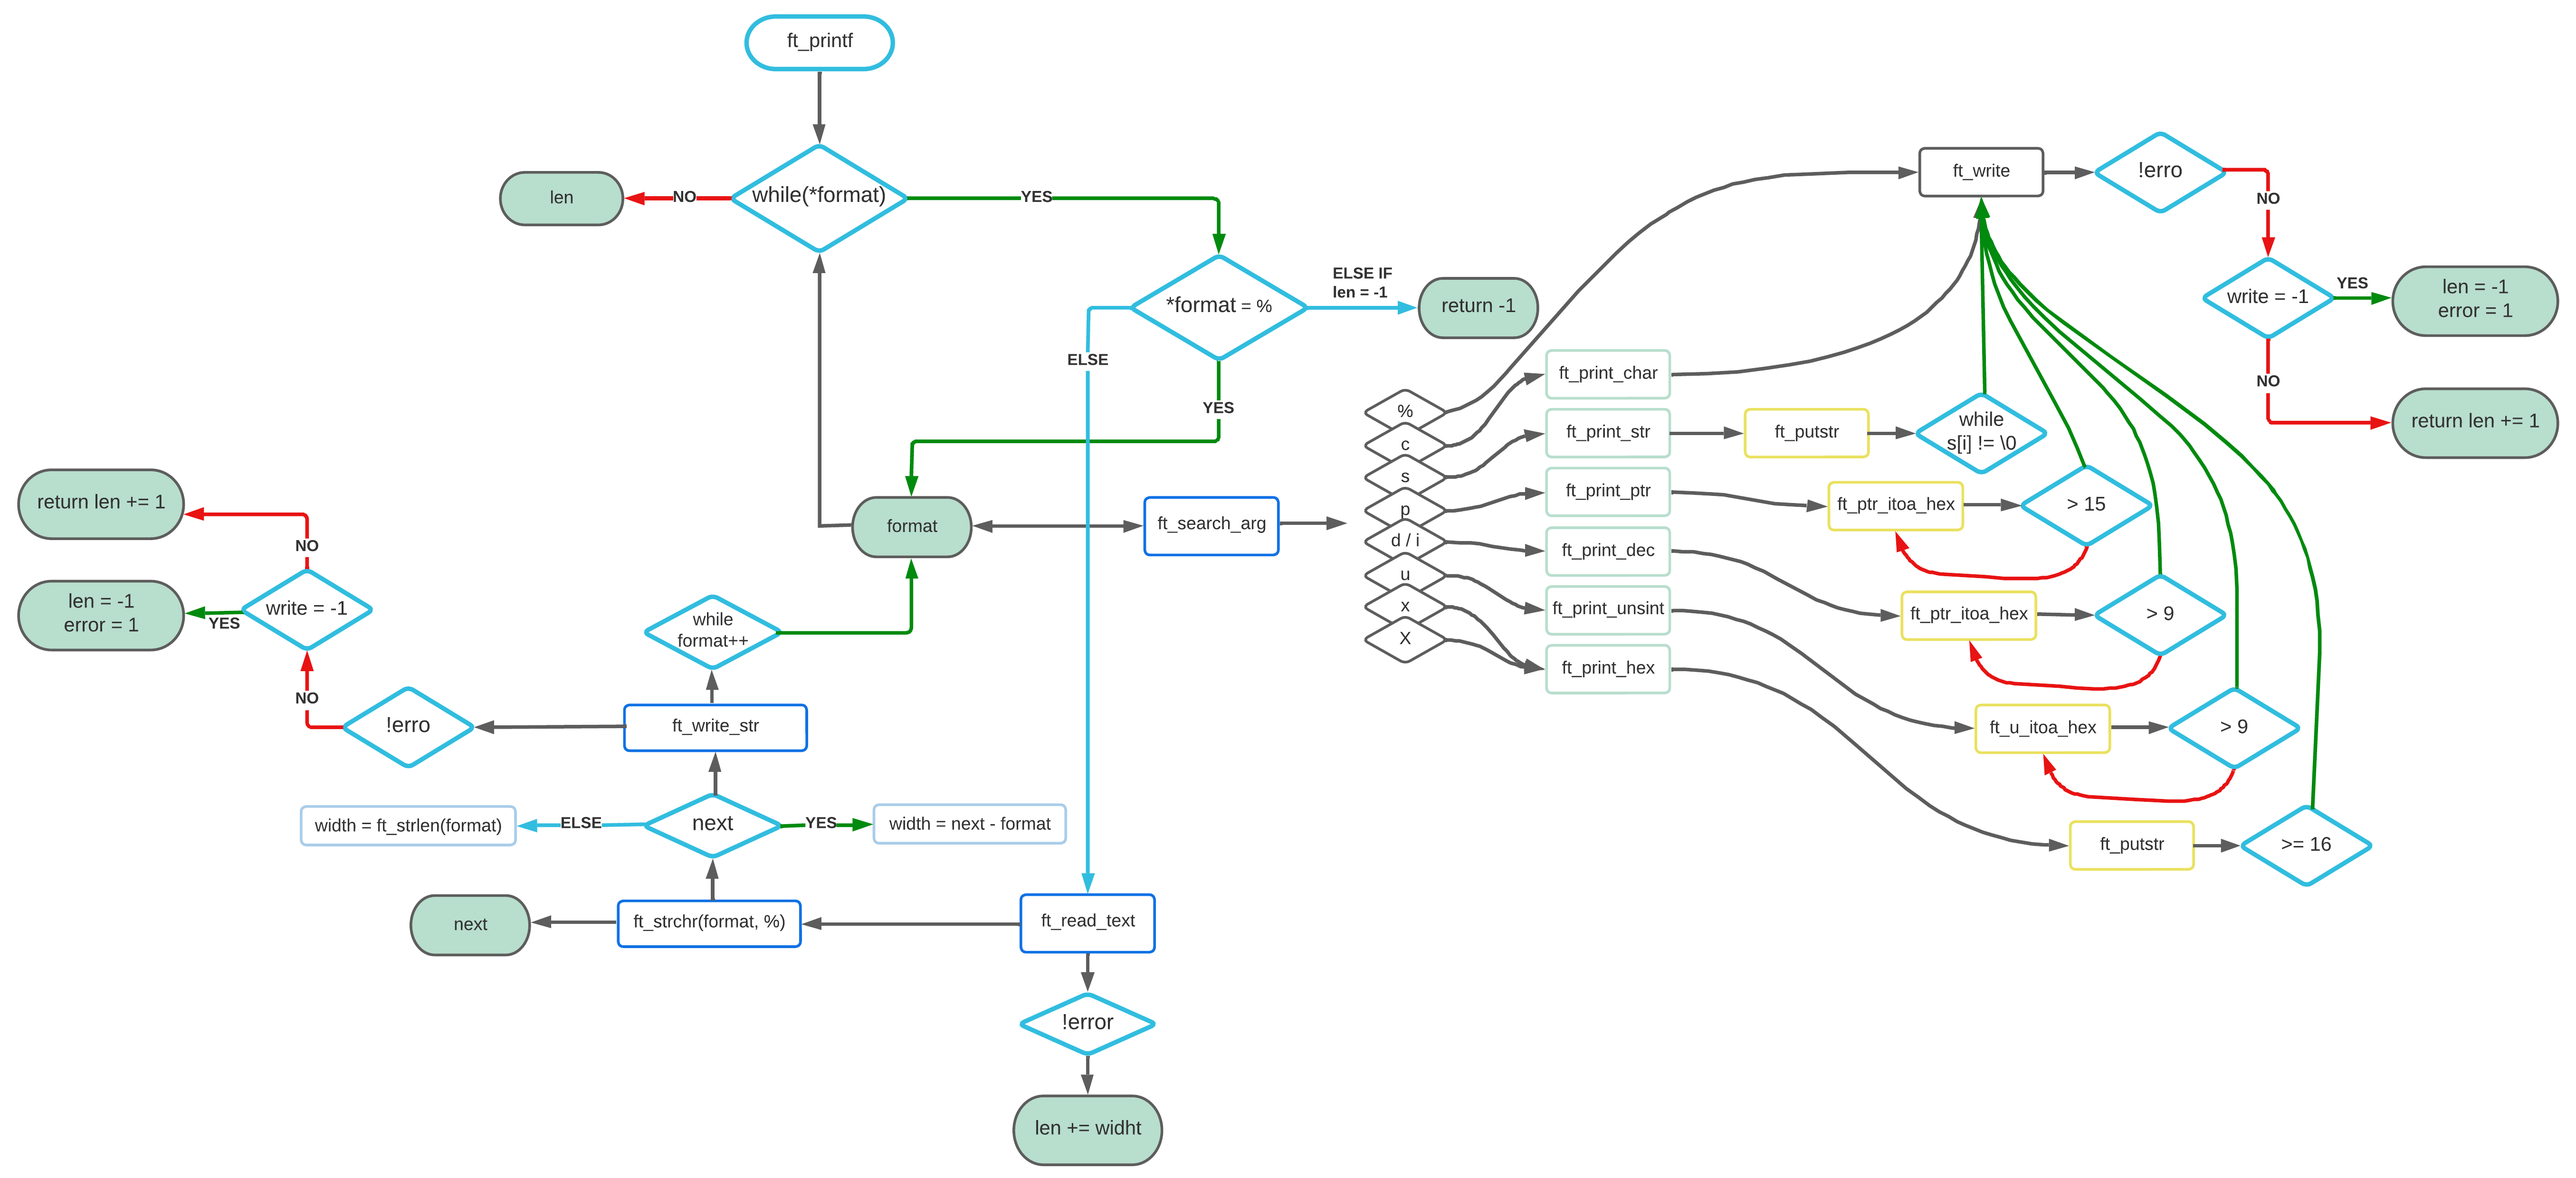
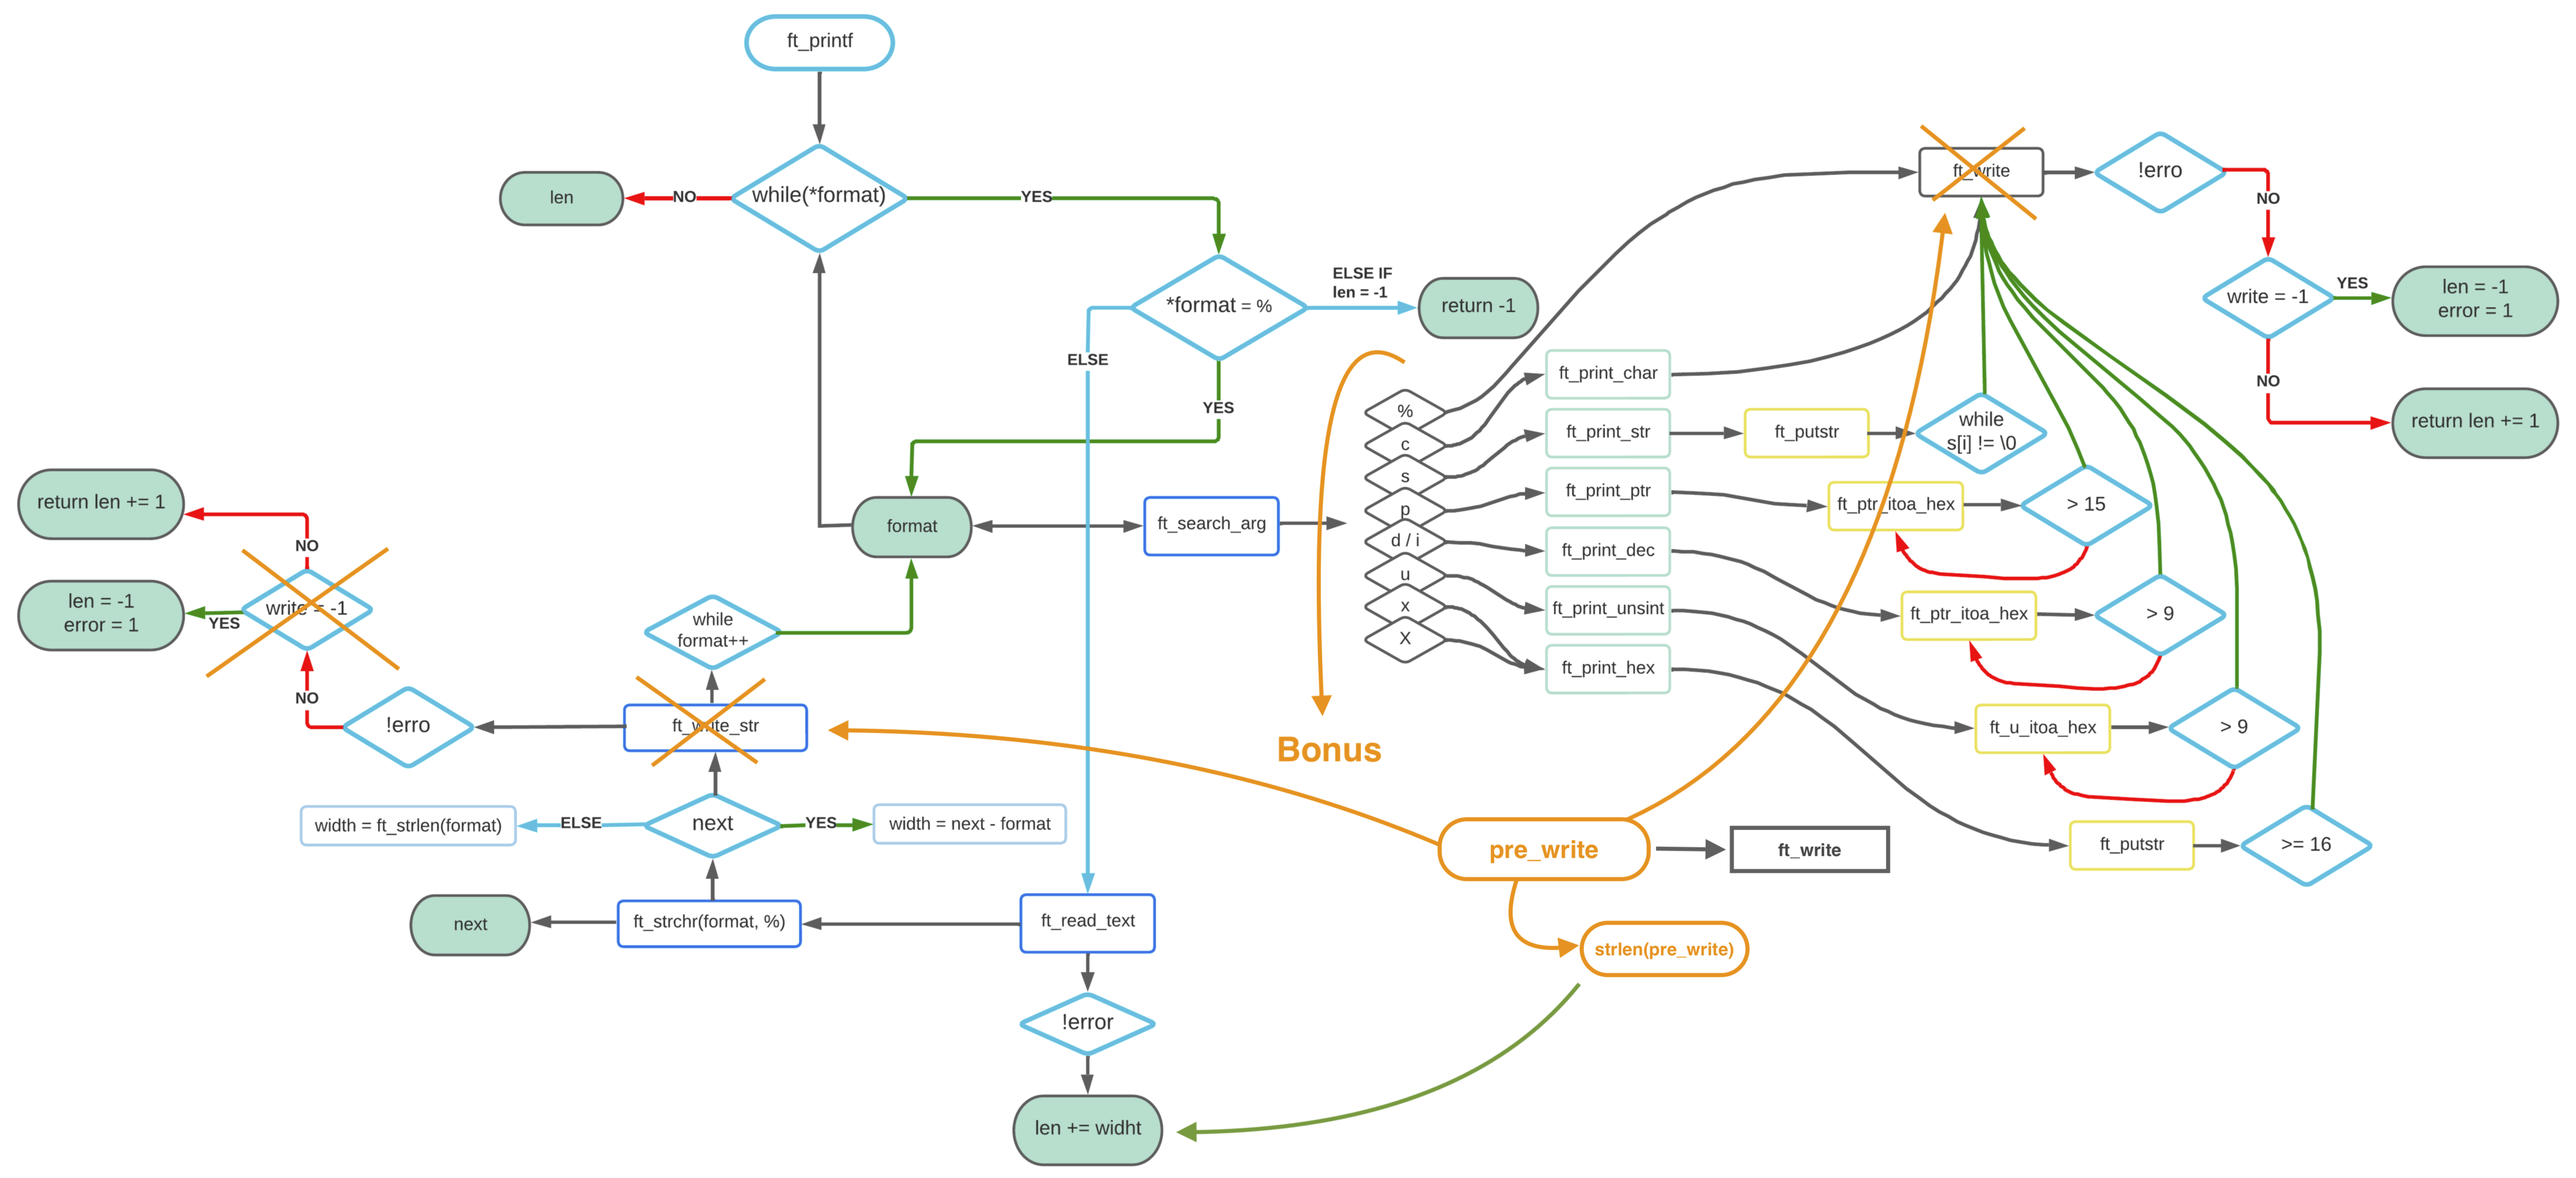
working... and ideas

diff --git a/test/bonus_dec.c b/test/bonus_dec.c
@@ -1,0 +1,59 @@
+/* ************************************************************************** */
+/*                                                                            */
+/*                                                        :::      ::::::::   */
+/*   bonus_dec.c                                        :+:      :+:    :+:   */
+/*                                                    +:+ +:+         +:+     */
+/*   By: nmota-bu <nmota-bu@student.42barcel>       +#+  +:+       +#+        */
+/*                                                +#+#+#+#+#+   +#+           */
+/*   Created: 2022/08/06 00:21:59 by nmota-bu          #+#    #+#             */
+/*   Updated: 2022/08/07 00:15:14 by nmota-bu         ###   ########.fr       */
+/*                                                                            */
+/* ************************************************************************** */
+
+/* ╔════════════════════════════════════════════════════════════════════════╗ */
+/* ║                 https://github.com/nach131/42Barcelona                 ║ */
+/* ╚════════════════════════════════════════════════════════════════════════╝ */
+
+#include <stdio.h>
+
+int	main(void)
+{
+	printf("%%7d: 42%7d|\n", 42);
+	printf("%%7d: -42%7d|\n", -42);
+	printf("-------------------\n");
+	printf("%%-7d: 42%-7d|\n", 42);
+	printf("%%-7d: -42%-7d|\n", -42);
+	printf("-------------------\n");
+	printf("%%.7d: 42%.7d|\n", 42);
+	printf("%%.7d: -42%.7d|\n", -42);
+	printf("-------------------\n");
+	printf("%%07d: 42%07d|\n", 42); 
+	printf("%%07d: -42%07d|\n", -42);
+	printf("-------------------\n");
+	printf("%%7.5d: 42%7.5d|\n", 42);
+	printf("%%7.5d: -42%7.5d|\n", -42);
+	printf("-------------------\n");
+	printf("%%-7.5d: 42%-7.5d|\n", 42);
+	printf("%%-7.5d: -42%-7.5d|\n", -42);
+	printf("-------------------\n");
+
+}
+
+// %7d: 42     42|			7 en total se llena con espacios
+// %7d: -42    -42|			a la izq
+// -------------------
+// %-7d: 4242     |			7 en total se llena con espacios 
+// %-7d: -42-42    |		a la derecha
+// -------------------
+// %.7d: 420000042| 		7 total llenado de 0
+// %.7d: -42-0000042|		7 total incluido - llenado de cero
+// -------------------
+// %07d: 420000042| 		7 total llenado de 0
+// %07d: -42-000042|		7 total incluido - llenado de cero
+// -------------------
+// %7.5d: 42  00042|		7 espacios a la izq llenado de ceros
+// %7.5d: -42 -00042|		7 - incluido
+// -------------------
+// %-7.5d: 4200042  |		7 espacios a la derecha llenado de ceros
+// %-7.5d: -42-00042 |	7 - incluido
+// -------------------

diff --git a/test/bonus_un.c b/test/bonus_un.c
@@ -1,0 +1,59 @@
+/* ************************************************************************** */
+/*                                                                            */
+/*                                                        :::      ::::::::   */
+/*   bonus_un.c                                         :+:      :+:    :+:   */
+/*                                                    +:+ +:+         +:+     */
+/*   By: nmota-bu <nmota-bu@student.42barcel>       +#+  +:+       +#+        */
+/*                                                +#+#+#+#+#+   +#+           */
+/*   Created: 2022/08/06 00:21:59 by nmota-bu          #+#    #+#             */
+/*   Updated: 2022/08/07 00:15:58 by nmota-bu         ###   ########.fr       */
+/*                                                                            */
+/* ************************************************************************** */
+
+/* ╔════════════════════════════════════════════════════════════════════════╗ */
+/* ║                 https://github.com/nach131/42Barcelona                 ║ */
+/* ╚════════════════════════════════════════════════════════════════════════╝ */
+
+#include <stdio.h>
+
+int	main(void)
+{
+	printf("%%7d: 42%7u|\n", 42);
+	printf("%%7d: -42%7u|\n", -42);
+	printf("-------------------\n");
+	printf("%%-7d: 42%-7u|\n", 42);
+	printf("%%-7d: -42%-7u|\n", -42);
+	printf("-------------------\n");
+	printf("%%.7d: 42%.7u|\n", 42);
+	printf("%%.7d: -42%.7u|\n", -42);
+	printf("-------------------\n");
+	printf("%%07d: 42%07u|\n", 42); 
+	printf("%%07d: -42%07u|\n", -42);
+	printf("-------------------\n");
+	printf("%%7.5d: 42%7.5u|\n", 42);
+	printf("%%7.5d: -42%7.5u|\n", -42);
+	printf("-------------------\n");
+	printf("%%-7.5d: 42%-7.5u|\n", 42);
+	printf("%%-7.5d: -42%-7.5u|\n", -42);
+	printf("-------------------\n");
+
+}
+
+// %7d: 42     42|			7 en total se llena con espacios
+// %7d: -42    -42|			a la izq
+// -------------------
+// %-7d: 4242     |			7 en total se llena con espacios 
+// %-7d: -42-42    |		a la derecha
+// -------------------
+// %.7d: 420000042| 		7 total llenado de 0
+// %.7d: -42-0000042|		7 total incluido - llenado de cero
+// -------------------
+// %07d: 420000042| 		7 total llenado de 0
+// %07d: -42-000042|		7 total incluido - llenado de cero
+// -------------------
+// %7.5d: 42  00042|		7 espacios a la izq llenado de ceros
+// %7.5d: -42 -00042|		7 - incluido
+// -------------------
+// %-7.5d: 4200042  |		7 espacios a la derecha llenado de ceros
+// %-7.5d: -42-00042 |	7 - incluido
+// -------------------

diff --git a/test/bonus_int.c b/test/bonus_int.c
@@ -1,0 +1,59 @@
+/* ************************************************************************** */
+/*                                                                            */
+/*                                                        :::      ::::::::   */
+/*   bonus_int.c                                        :+:      :+:    :+:   */
+/*                                                    +:+ +:+         +:+     */
+/*   By: nmota-bu <nmota-bu@student.42barcel>       +#+  +:+       +#+        */
+/*                                                +#+#+#+#+#+   +#+           */
+/*   Created: 2022/08/06 00:21:59 by nmota-bu          #+#    #+#             */
+/*   Updated: 2022/08/07 00:13:35 by nmota-bu         ###   ########.fr       */
+/*                                                                            */
+/* ************************************************************************** */
+
+/* ╔════════════════════════════════════════════════════════════════════════╗ */
+/* ║                 https://github.com/nach131/42Barcelona                 ║ */
+/* ╚════════════════════════════════════════════════════════════════════════╝ */
+
+#include <stdio.h>
+
+int	main(void)
+{
+	printf("%%7d: 42%7i|\n", 42);
+	printf("%%7d: -42%7i|\n", -42);
+	printf("-------------------\n");
+	printf("%%-7d: 42%-7i|\n", 42);
+	printf("%%-7d: -42%-7i|\n", -42);
+	printf("-------------------\n");
+	printf("%%.7d: 42%.7i|\n", 42);
+	printf("%%.7d: -42%.7i|\n", -42);
+	printf("-------------------\n");
+	printf("%%07d: 42%07i|\n", 42); 
+	printf("%%07d: -42%07i|\n", -42);
+	printf("-------------------\n");
+	printf("%%7.5d: 42%7.5i|\n", 42);
+	printf("%%7.5d: -42%7.5i|\n", -42);
+	printf("-------------------\n");
+	printf("%%-7.5d: 42%-7.5i|\n", 42);
+	printf("%%-7.5d: -42%-7.5i|\n", -42);
+	printf("-------------------\n");
+
+}
+
+// %7d: 42     42|			7 en total se llena con espacios
+// %7d: -42    -42|			a la izq
+// -------------------
+// %-7d: 4242     |			7 en total se llena con espacios 
+// %-7d: -42-42    |		a la derecha
+// -------------------
+// %.7d: 420000042| 		7 total llenado de 0
+// %.7d: -42-0000042|		7 total incluido - llenado de cero
+// -------------------
+// %07d: 420000042| 		7 total llenado de 0
+// %07d: -42-000042|		7 total incluido - llenado de cero
+// -------------------
+// %7.5d: 42  00042|
+// %7.5d: -42 -00042|
+// -------------------
+// %-7.5d: 4200042  |
+// %-7.5d: -42-00042 |
+// -------------------

diff --git a/test/bonus_x.c b/test/bonus_x.c
@@ -1,0 +1,59 @@
+/* ************************************************************************** */
+/*                                                                            */
+/*                                                        :::      ::::::::   */
+/*   bonus_x.c                                          :+:      :+:    :+:   */
+/*                                                    +:+ +:+         +:+     */
+/*   By: nmota-bu <nmota-bu@student.42barcel>       +#+  +:+       +#+        */
+/*                                                +#+#+#+#+#+   +#+           */
+/*   Created: 2022/08/06 00:21:59 by nmota-bu          #+#    #+#             */
+/*   Updated: 2022/08/07 00:17:27 by nmota-bu         ###   ########.fr       */
+/*                                                                            */
+/* ************************************************************************** */
+
+/* ╔════════════════════════════════════════════════════════════════════════╗ */
+/* ║                 https://github.com/nach131/42Barcelona                 ║ */
+/* ╚════════════════════════════════════════════════════════════════════════╝ */
+
+#include <stdio.h>
+
+int	main(void)
+{
+	printf("%%7d: 42%7x|\n", 42);
+	printf("%%7d: -42%7x|\n", -42);
+	printf("-------------------\n");
+	printf("%%-7d: 42%-7x|\n", 42);
+	printf("%%-7d: -42%-7x|\n", -42);
+	printf("-------------------\n");
+	printf("%%.7d: 42%.7x|\n", 42);
+	printf("%%.7d: -42%.7x|\n", -42);
+	printf("-------------------\n");
+	printf("%%07d: 42%07x|\n", 42); 
+	printf("%%07d: -42%07x|\n", -42);
+	printf("-------------------\n");
+	printf("%%7.5d: 42%7.5x|\n", 42);
+	printf("%%7.5d: -42%7.5x|\n", -42);
+	printf("-------------------\n");
+	printf("%%-7.5d: 42%-7.5x|\n", 42);
+	printf("%%-7.5d: -42%-7.5x|\n", -42);
+	printf("-------------------\n");
+
+}
+
+// %7d: 42     2a|
+// %7d: -42ffffffd6|
+// -------------------
+// %-7d: 422a     |
+// %-7d: -42ffffffd6|
+// -------------------
+// %.7d: 42000002a|
+// %.7d: -42ffffffd6|
+// -------------------
+// %07d: 42000002a|
+// %07d: -42ffffffd6|
+// -------------------
+// %7.5d: 42  0002a|
+// %7.5d: -42ffffffd6|
+// -------------------
+// %-7.5d: 420002a  |
+// %-7.5d: -42ffffffd6|
+// -------------------

diff --git a/tmp/ft_read_text_ori.c b/tmp/ft_read_text_ori.c
@@ -1,12 +1,12 @@
 /* ************************************************************************** */
 /*                                                                            */
 /*                                                        :::      ::::::::   */
-/*   ft_print_dec.c                                     :+:      :+:    :+:   */
+/*   ft_read_text.c                                     :+:      :+:    :+:   */
 /*                                                    +:+ +:+         +:+     */
 /*   By: nmota-bu <nmota-bu@student.42barcel>       +#+  +:+       +#+        */
 /*                                                +#+#+#+#+#+   +#+           */
-/*   Created: 2022/07/19 19:12:40 by nmota-bu          #+#    #+#             */
-/*   Updated: 2022/07/30 15:51:12 by nmota-bu         ###   ########.fr       */
+/*   Created: 2022/07/16 12:41:13 by nmota-bu          #+#    #+#             */
+/*   Updated: 2022/07/30 15:49:55 by nmota-bu         ###   ########.fr       */
 /*                                                                            */
 /* ************************************************************************** */
 
@@ -15,35 +15,31 @@
 /* ╚════════════════════════════════════════════════════════════════════════╝ */
 
 #include "ft_printf.h"
+#include "libft.h"
 
-static void	ft_putnbr_dec(int n, t_print *tp)
+static void	ft_write_str(const char *c, t_print *tp)
 {
-	if (n < 0)
-	{
-		if (n == -2147483648)
-			ft_putstr("-2147483648", tp);
-		else
+	if (!tp->error)
+	{	
+		if (write(1, c, tp->widht) == -1)
 		{
-			// aki los ceros
-				ft_write('-', tp);
-				tp->len -= 1;
-				n = -n;
-			// if(tp->num_zero)
-			// 	ft_rep_write('0', tp);
-		}	
+			tp->error = 1;
+			tp->len = -1;
+		}
 	}
-	if(tp->num_zero)	
-			ft_rep_write('0', tp);
-	if (n > 9)
-		ft_putnbr_dec(n / 10, tp);
-	if (n != -2147483648)
-		ft_write ('0' + n % 10, tp);
 }
 
-void	ft_print_dec(va_list arg, t_print *tp)
+const	char	*ft_read_text(t_print *tp, const char *format)
 {
-	int	d;
+	char	*next;
 
-	d = va_arg(arg, int);
-	ft_putnbr_dec(d, tp);
+	next = ft_strchr(format, '%');
+	if (next)
+		tp->widht = next - format;
+	else
+		tp->widht = ft_strlen(format);
+	ft_write_str(format, tp);
+	while (*format && *format != '%')
+		format++;
+	return (format);
 }

diff --git a/sources/src/ft_read_text.c b/sources/src/ft_read_text.c
@@ -6,7 +6,7 @@
 /*   By: nmota-bu <nmota-bu@student.42barcel>       +#+  +:+       +#+        */
 /*                                                +#+#+#+#+#+   +#+           */
 /*   Created: 2022/07/16 12:41:13 by nmota-bu          #+#    #+#             */
-/*   Updated: 2022/07/30 15:49:55 by nmota-bu         ###   ########.fr       */
+/*   Updated: 2022/08/06 23:28:42 by nmota-bu         ###   ########.fr       */
 /*                                                                            */
 /* ************************************************************************** */
 
@@ -60,20 +60,20 @@ const	char	*ft_read_text(t_print *tp, const char *format, va_list arg)
 	char	*next;
 
 	next = ft_strchr(format, '%');
-	if (next)
-		tp->widht = next - format;
-	else if (tp->zero)
-		{
+	if (tp->zero)
+	{
 		tp->zero = 0;
-			while(*format != 'd' ) // poner las demas...
-			{
-				ft_memcpy_read(tp->to_write, format);
-				format++; 
-			}
+		while(*format != 'd' ) // poner las demas...
+		{
+			ft_memcpy_read(tp->to_write, format);
+			format++; 
+		}
 		tp->num_zero = ft_atoi(tp->to_write);
 		tp->to_write = "";
 		format = ft_search_arg(arg, format, tp);
-		}
+	}
+	if (next)
+		tp->widht = next - format;
 	else
 		tp->widht = ft_strlen(format);
 	ft_write_str(format, tp);

diff --git a/test/main_bonus.c b/test/main_bonus.c
@@ -8,8 +8,8 @@
 int	main()
 {
 	printf("-------	d T23------\n");
-	int dec_23_1 = ft_printf("%02d que\n",-42);
-	int dec_23_2 = printf("%02d que\n",-42);
+	int dec_23_1 = ft_printf("%02d\n",-42);
+	int dec_23_2 = printf("%02d\n",-42);
 	printf("\ndec_23_1 = %d\ndec_23_2 = %d\n", dec_23_1, dec_23_2);
 	printf("-------------\n");
 }
